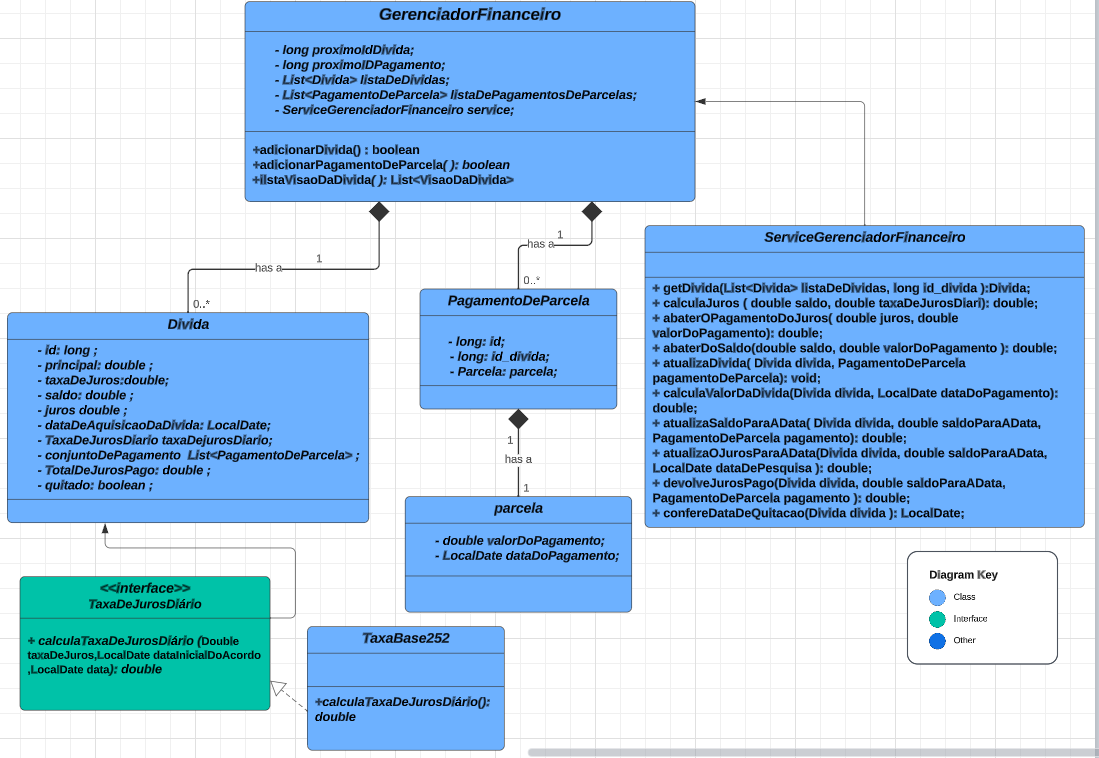
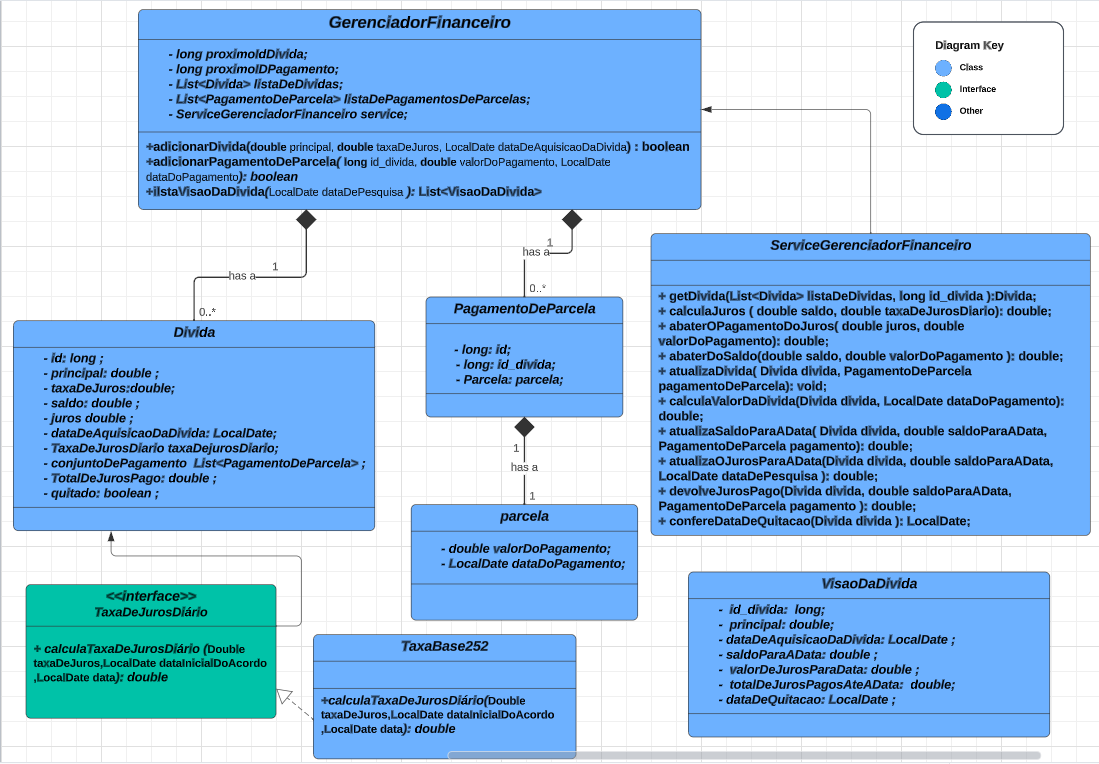
Atualizando o Diagrama UML e o readme

diff --git a/readme.md b/readme.md
@@ -3,8 +3,7 @@
 ## Candidato: Andreas Hukuhara Christe
 
 ### Descrição:
-A aplicação tem como propósito ajudar pessoas a gerirem suas dívidas, ajudando no planejamento para
-limpar o seu nome.s
+A aplicação tem como propósito ajudar pessoas a gerirem suas dívidas, ajudando no planejamento para limpar o seu nome.
 
 O projeto foi feito com maven para o gerenciamento de dependências e os testes unitários foram utilizando o junit 5;
 
@@ -13,4 +12,13 @@ O projeto foi feito com maven para o gerenciamento de dependências e os testes 
 <img src="./DiagramaUml.PNG">
 
 O diagrama acima Resume o planejamento utilizado para realizar as 3 principais funções da api. O Gerenciador financeiro é composto por uma lista de dívidas, uma lista de Pagamentos e pela instância ServiceGerenciadorFinanceiro que auxiliam nas operações necessárias para o processo de inclusão de dívidas, adicionar pagamento de parcelas e pela consulta de dividas.
+
+Breve descrição das apis:
+
+- Função adicionarDivida(double principal, double taxaDeJuros, LocalDate dataDeAquisicaoDaDivida)  retorna um  boolean. Essa função verifica se as do valor principal apresentada no desafio e adiciona uma instância de dívida à lista de dívidas, retornando true caso a operação dê certo;
+
+- Função adicionarPagamentoDeParcela(long id_divida, double valorDoPagamento, LocalDate dataDoPagamento) retorna um boolean. Ela é responsável por verificar todas as restrições descrita no desafio  e adiciona uma instância de Pagamento de Parcela à lista de pagamento de parcela. os cálculos necessários para essa operação estão presente no serviceGerenciadorFinanceiro;
+
+- Função List< VisaoDaDivida > listaVisaoDaDivida(LocalDate dataDePesquisa)  retorna uma lista de Visão das dívidas de acordo com a data de pesquisa. Essa função percorre as dívidas e seus respectivos pagamentos para efetuar os cálculos necessários e adicionar uma instância de visão da dívida  à lista.
+
 
